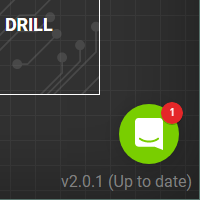
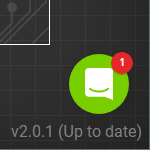
updated doc homescreen

diff --git a/src/components/docs/index.jsx b/src/components/docs/index.jsx
@@ -21,7 +21,7 @@ export default () => (
           edges {
             node {
               childImageSharp {
-                fixed(width: 180, height: 180, quality: 90) {
+                fixed(width: 120, height: 120, quality: 90) {
                   ...GatsbyImageSharpFixed_withWebp_noBase64
                 }
               }
@@ -38,8 +38,8 @@ class Docs extends React.Component {
   render() {
     const { docs } = this.props.data;
 
-    const intercom = docs.edges[0].node.childImageSharp.fixed;
-    const forums = docs.edges[1].node.childImageSharp.fixed;
+    const forums = docs.edges[0].node.childImageSharp.fixed;
+    const intercom = docs.edges[1].node.childImageSharp.fixed;
 
     return (
       <div>
@@ -47,36 +47,37 @@ class Docs extends React.Component {
         <section className={s.wrapper}>
           <SideBar details={this.props.details} />
           <div className={s.document}>
-            <h1>Tutorials, user guides and troubleshooting tips.</h1>
-            <p>Get to know the basics of the Voltera V-One and learn a few tricks along the way!</p>
+            <h1>Tutorials and Downloads.</h1>
             <div className="flex-row">
               <QuickStart icon={helloWorld} link="/docs/hello-world/printer-setup/">
                 <h2>Getting Started!</h2>
-                <p>Print your first board and learn the basics with the Hello World tutorial!</p>
               </QuickStart>
               <QuickStart icon={drilling} link="/docs/punk-console/drill-safety/">
                 <h2>Start Drilling!</h2>
-                <p>Create the Punk Console! Use the drill to create a double sided board.</p>
               </QuickStart>
               <QuickStart icon={downloads} link="/docs/desktop-application/">
                 <h2>Download App!</h2>
-                <p>Looking for the software? Get it here and jump right into it!</p>
               </QuickStart>
             </div>
-            <div className={s.infoWrapper}>
-              <div className={s.info}>
-                <Img fixed={intercom} className={s.imgWrapper} />
-                <div>
-                  <h2>Need help? Say hello!</h2>
-                  <p>Live chat with our support team by clicking the green bubble in the bottom right of the desktop app.</p>
-                </div>
+            <div className={s.info}>
+              <Img fixed={intercom} className={s.imgWrapper} />
+              <div>
+                <h2>Need help? Say hello!</h2>
+                <p>Live chat with our support team by clicking the green bubble in the bottom right of the app.</p>
               </div>
-              <div className={s.info}>
-                <Img fixed={forums} className={s.imgWrapper} />
-                <div>
-                  <h2>Join the community!</h2>
-                  <p> Visit our forums <a href="http://community.voltera.io/" target="_blank" rel="noopener noreferrer">here</a> and join the conversation to chat with beginners and experts.</p>
-                </div>
+            </div>
+            <div className={s.info}>
+              <Img fixed={forums} className={s.imgWrapper} />
+              <div>
+                <h2>Join the community!</h2>
+                <p>
+                  Visit our forums{" "}
+                  <a href="http://community.voltera.io/" target="_blank" rel="noopener noreferrer">
+                    {" "}
+                    here{" "}
+                  </a>{" "}
+                  and join the conversation to chat with V-One beginners and experts.
+                </p>
               </div>
             </div>
           </div>

diff --git a/src/components/docs/docs.module.scss b/src/components/docs/docs.module.scss
@@ -30,21 +30,15 @@
 }
 
 .info {
-  flex-basis: 400px;
-  text-align: center;
-}
-
-.info-wrapper {
   display: flex;
-  flex-wrap: wrap;
-  align-items: flex-start;
-  justify-content: space-around;
-
-  p {
-    text-align: left;
-  }
+  align-items: center;
+  margin: $small-padding;
 
   h2 {
-    text-align: center;
+    margin-top: 0px;
   }
+}
+
+.img-wrapper {
+  margin-right: $small-padding;
 }

diff --git a/src/components/docs/sidebar/articles/articles.module.scss b/src/components/docs/sidebar/articles/articles.module.scss
@@ -5,6 +5,7 @@
     display: block;
     padding: 10px;
     margin: 5px 0px;
+    //font-weight: 600;
 
     border-radius: 5px;
     transition: all $t-time ease-in-out 0s;
